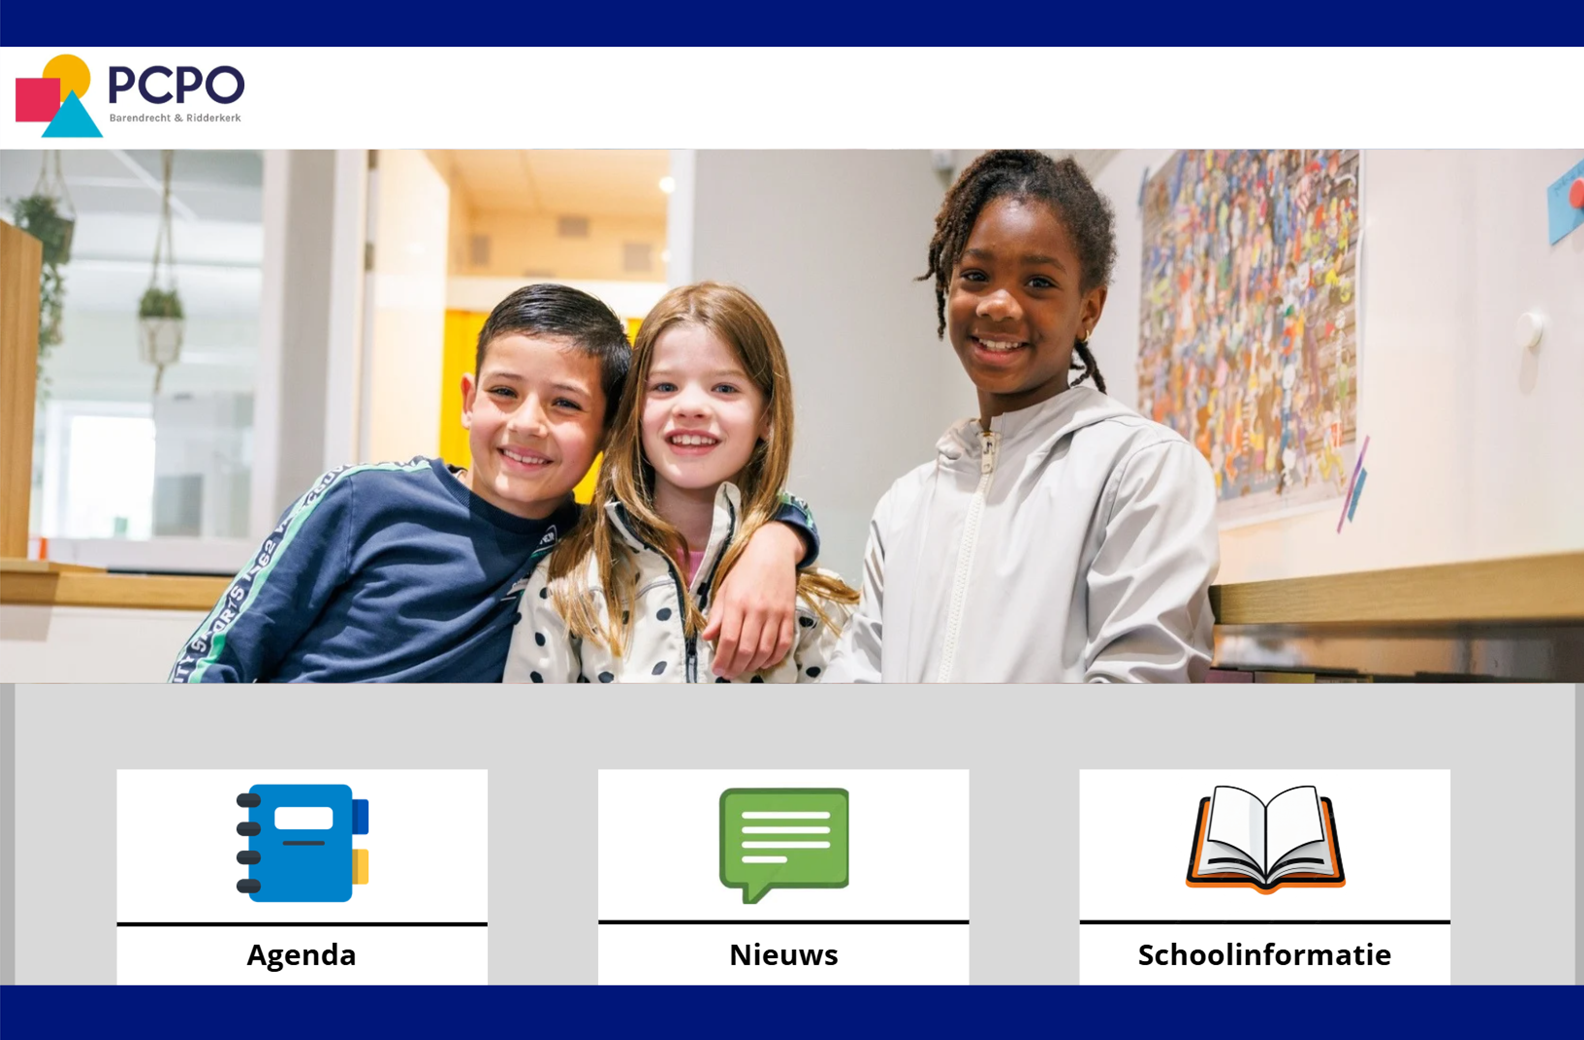
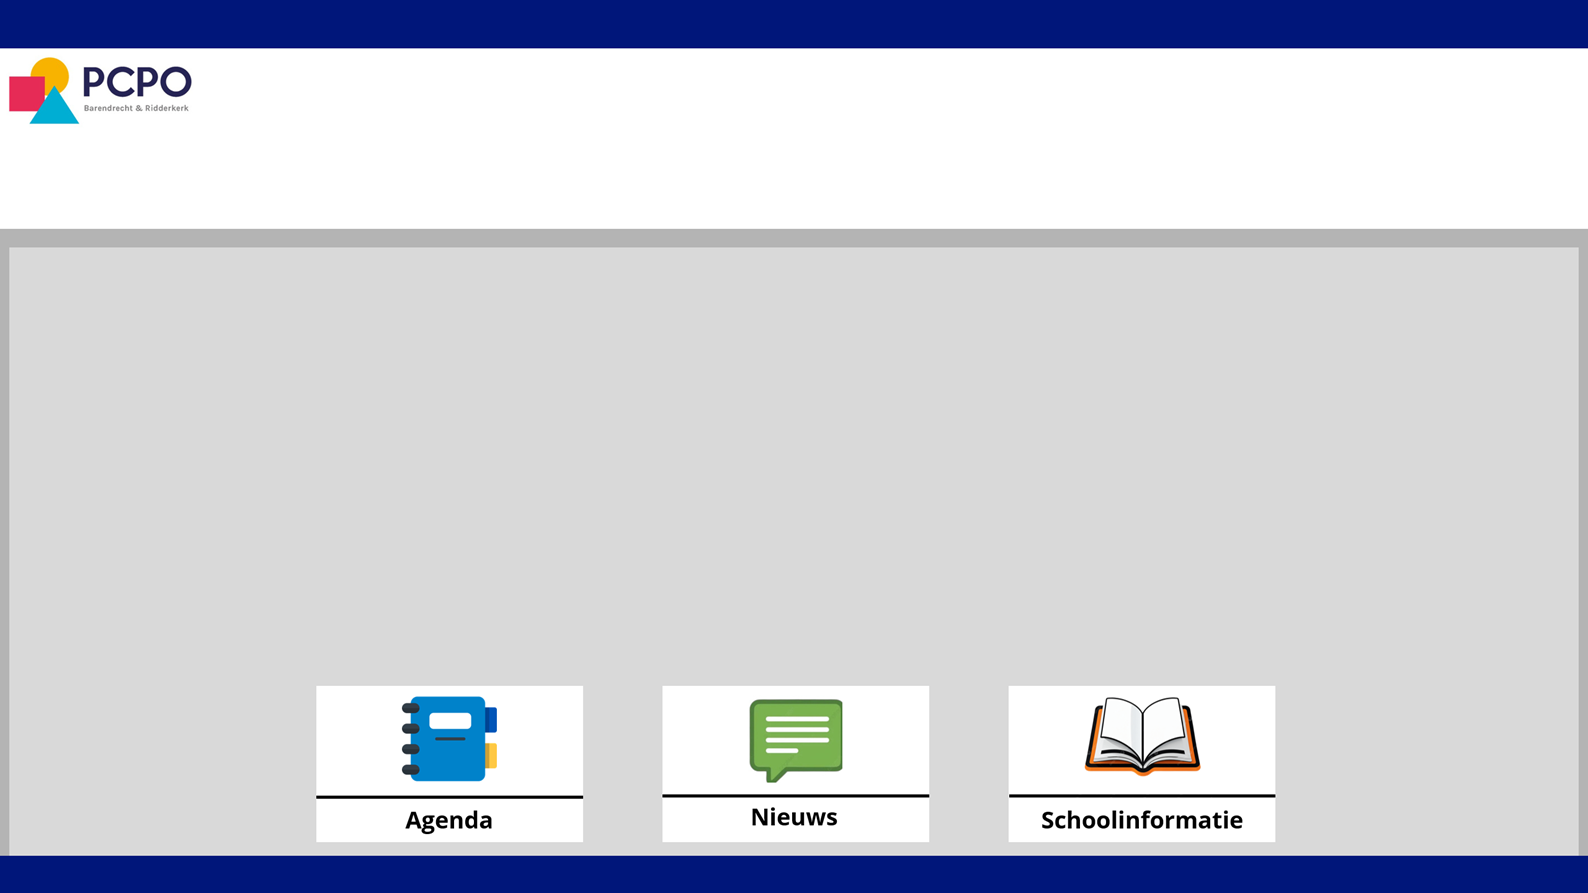
Your message

diff --git a/client/index.html b/client/index.html
@@ -4,31 +4,48 @@
   <meta charset="UTF-8">
   <meta name="viewport" content="width=device-width, initial-scale=1.0">
   <title>Home</title>
-  <link rel="stylesheet" href="style.css">
+  <link rel="stylesheet" href="/style.css">
 </head>
-<body class="index-page">
-<body style="
+
+<body class="index-page" style="
   margin: 0;
   height: 100vh;
-  background-image: url('images/achtergrond2.png');
+  background-image: url('/images/achtergrond2.png');
   background-size: 100%;
   background-position: center -5%;
   background-repeat: no-repeat;
 ">
-  <!-- Side menu -->
+  <div class="top-overlay-image" aria-hidden="true"></div>
   <nav id="sideMenu">
-    <a href="pagina1.html">Wist je dat?</a>
-    <a href="pagina2.html">Welke school past bij jouw kind?</a>
-    <a href="pagina3.html">Onze scholen</a>
-    <a href="pagina4.html">Contact</a>
-    <a href="pagina5.html">Pagina 5</a>
-    <a href="pagina6.html">Pagina 6</a>
-    <a href="pagina7.html">Pagina 7</a>
+    <a href="/pagina1.html">Wist je dat?</a>
+    <a href="/pagina2.html">Welke school past bij jouw kind?</a>
+    <a href="/pagina3.html">Onze scholen</a>
+    <a href="/pagina4.html">Contact</a>
+    <a href="/pagina5.html">Pagina 5</a>
+    <a href="/pagina6.html">Pagina 6</a>
+    <a href="/pagina7.html">Pagina 7</a>
   </nav>
+  <!-- Slideshow -->
+  <div class="slideshow-container2">
+    <div class="slide">
+      <img src="images/slideshow1.png">
+    </div>
+    <div class="slide">
+      <img src="images/slideshow2.png">
+    </div>  
+    <div class="slide">
+      <img src="images/slideshow3.png">
+    </div>
+    <div class="slide">
+      <img src="images/slideshow4.png">
+    </div>
+    <div class="slide">
+      <img src="images/slideshow5.png">
+    </div>
+  </div>
 
-  <script src="app.js"></script>
+  <button id="menuToggle">➤</button>
+
+  <script src="/app.js"></script>
 </body>
 </html>
-
-  <!-- Arrow button -->
-  <button id="menuToggle">➤</button>

diff --git a/client/style.css b/client/style.css
@@ -31,7 +31,7 @@ body {
   transform-origin: center center;
 }
 
-@keyframes drive-roundabout {
+/*@keyframes drive-roundabout {
   0% {
     left: 11vw;
     bottom: 12vh;
@@ -51,7 +51,7 @@ body {
     opacity: 0;
   
   }
-}
+}*/
 .pagina1-page {
   background-image: url('images/PCPO.rotonde.png');
   background-size: cover;
@@ -258,7 +258,45 @@ body {
   43% { opacity: 0; }
   100% { opacity: 0; }
 }
+.slideshow-container2 {
+  max-width: 1190px;
+  margin: 90px auto 0;
+  position: cover;
+}
 
+/* Slides */
+.slide {
+  display: none;
+}
+
+.slide img {
+  width: 100%;
+  border: clamp(00px, 0vw, 0px) solid var(--pcpo-red);
+  border-radius: 0px;
+}
+
+/* Welcome title */
+.welcome-title {
+  margin-top: 0px;
+  margin-bottom: 20px;
+  text-align: center;
+  color: var(--pcpo-yellow);
+  font-size: 72px;
+  font-weight: bold;
+}
+
+/* Fade animation */
+.fade {
+  animation: fadeEffect 2s;
+}
+
+@keyframes fadeEffect {
+  0% { opacity: 0; }
+  10% { opacity: 1; }
+  33% { opacity: 1; }
+  43% { opacity: 0; }
+  100% { opacity: 0; }
+}
 /* =========================
    DEVICE-SPECIFIC VERSIONS
    ADDITIVE ONLY
@@ -350,4 +388,19 @@ body {
     font-size: 22px;
   }
 }
-/*canyoureadthis?/
+/*canyoureadthis?*/
+
+.top-overlay-image {
+  position: absolute;
+  top: 300px;
+  left: 50%;
+  width: min(92vw, 1100px);
+  height: clamp(220px, 55vh, 700px);
+  transform: translateX(-50%);
+  background-image: url('images/text.achtergrond.png');
+  background-size: contain;
+  background-position: center top;
+  background-repeat: no-repeat;
+  z-index: 3000;
+  pointer-events: none;
+}

diff --git a/client/app.js b/client/app.js
@@ -3,7 +3,7 @@ document.addEventListener("DOMContentLoaded", () => {
   const toggleButton = document.getElementById("menuToggle");
   const sideMenu = document.getElementById("sideMenu");
 
- if (toggleButton && sideMenu) {
+if (toggleButton && sideMenu) {
     toggleButton.addEventListener("click", () => {
       sideMenu.classList.toggle("open");
       toggleButton.classList.toggle("open");
